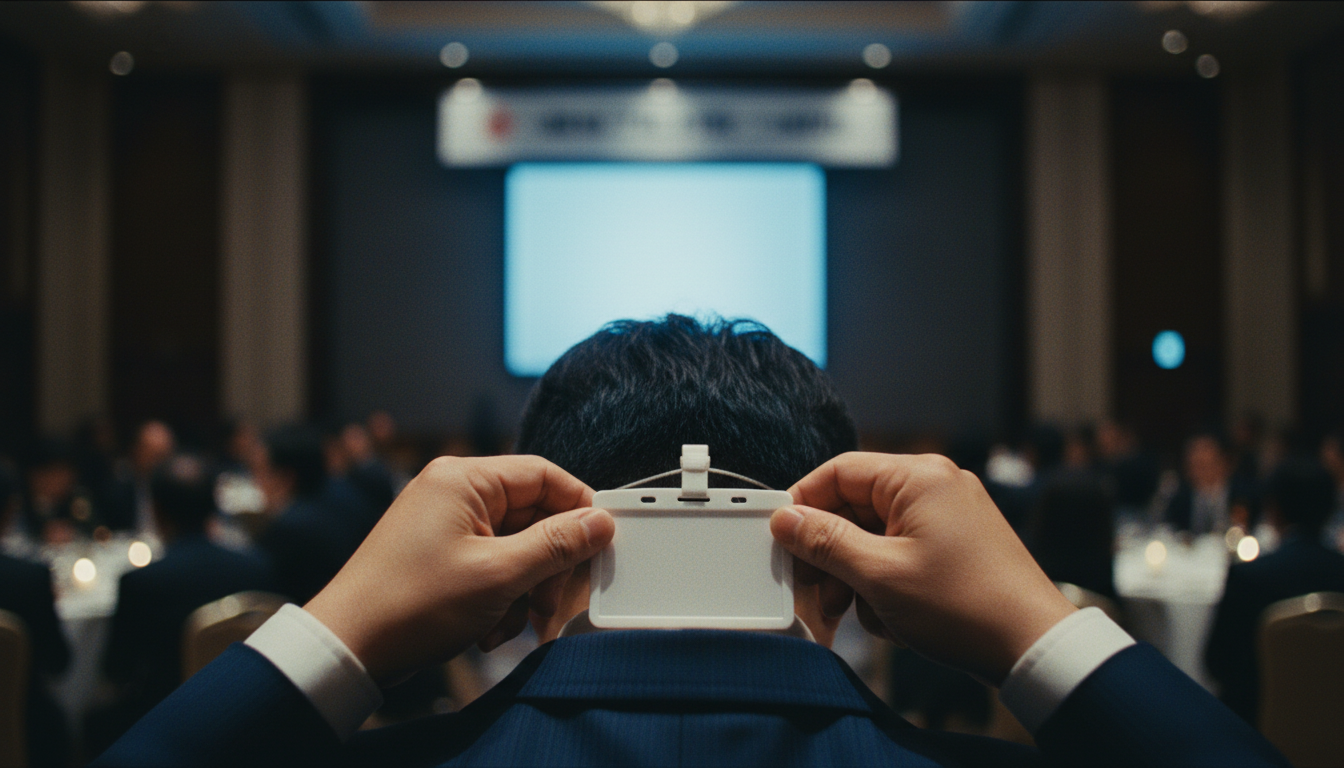
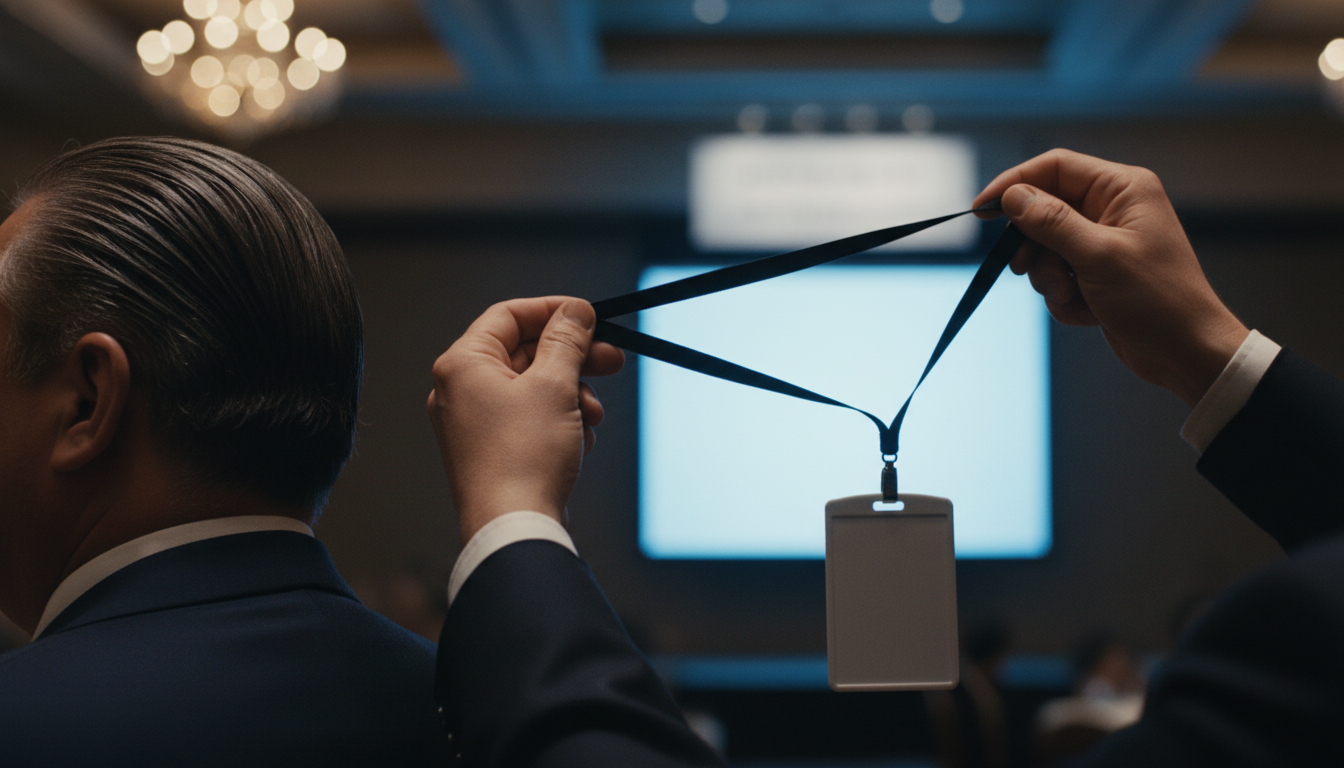
#02 S17b 재생성 합격·수집, PHASE 4 지출 7.72달러
Claude-Session: https://claude.ai/code/session_01YQ7Cp53r875ebzvKNdfnd7

diff --git a/productions/chika-souko-ja/09_PHASE4_검수.md b/productions/chika-souko-ja/09_PHASE4_검수.md
@@ -54,9 +54,12 @@
 - 불합격 3 → 3차: S10f 뒷모습 미디엄 → 손·트랙패드만(합격, 띠 크롭; 키보드 자판은 실제 QWERTY라 허용, 편집에서 손 중심 푸시인). S12b2 'sil' 컷이라 인서트 규칙 미적용 → NOFACE 집합 추가, 1차 결과 가죽끈 시계·라벨 글자 → 금시계·무지 병으로 4차 합격. S16d 장소 셀이 원근을 강제 → 참조 없이 글로만 → 수직 부감·정수리 합격.
 - 생성기 반영: NOFACE·NO_LOC_REF 집합, 인서트에서 기준 얼굴 참조까지 제거.
 
+### 감독님 지적 후속(S17b)
+- 지적: 손이 뒤통수 뒤에서 나와 카드를 쥔 기이한 자세. 추가 확인: 검은 머리(곤도의 반백 올백 아님), 현수막 글자. → 측면 구도로 재설계(왼쪽 곤도 뒤통수·목, 오른쪽에서 경비원 손이 목걸이를 머리 위로 들어 올림, 배경 보케) 재생성 합격(0.04달러).
+
 ## PHASE 4 완료 요약(2026-10-08)
 - 키프레임 147장 전부 합격·수집(`assets/portraits/chika-keyframes/`). 최종 콘택트시트 `PHASE4_최종_콘택트시트_01~08.jpg`, 얼굴 대조 `PHASE4_최종_얼굴대조.jpg`.
-- 지출: 파일럿 0.20 + A단계 1.88 + B단계 5.60(1차 4.76 + 재생성 17장 0.68 + 3장 0.12 + 1장 0.04) = **7.68달러**(계획 5.88 대비 +1.80, 재생성 44장).
+- 지출: 파일럿 0.20 + A단계 1.88 + B단계 5.64(1차 4.76 + 재생성 17장 0.68 + 3장 0.12 + 1장 0.04 + S17b 0.04) = **7.72달러**(계획 5.88 대비 +1.84, 재생성 45장).
 - 앵글 분포(147): EL 39%·HA 25%·LA 20%·SIDE 10%·OH 5%·BE 2% — 60% 초과 없음.
 - 편집 메모(무료 처리): S06c 벽 종이·S07e 가장자리 얼굴·S10f 화면 글자 → 푸시인 크롭으로 프레임 밖.
 - 다음: PHASE 5 준비(무료) — 정지 푸시인 오버라이드(`build_chika_overrides.py`), 일본어 글자 합성(`ja_text_overlay.py`, 43컷), Kling 3.0 Pro fal 엔드포인트 검증, 2:1 레터박스·그레이딩 → 유료(i2v·OmniHuman·히어로) 규모 보고 후 승인.
